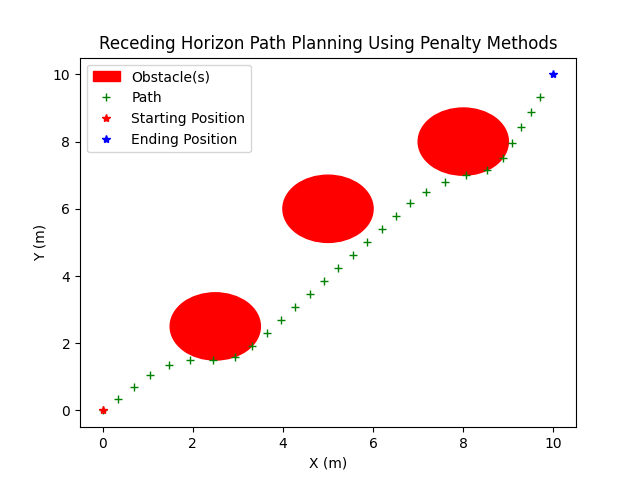
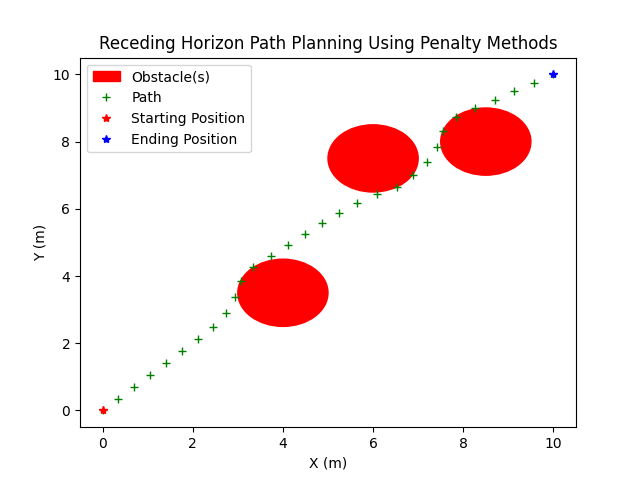
finished prjt hw

diff --git a/prototype.py b/prototype.py
@@ -42,12 +42,12 @@ if __name__ == '__main__':
     x0 = np.array([0,0])
     step_size = 0.5
     anchor_con_args = [x0,step_size]
-    centers = [np.array([2.5,2.5]),
-                np.array([8,8]),
-                np.array([5,6])]
-    # centers = [np.array([5,5]),
-    #             np.array([4,6]),
-    #             np.array([6,4])]
+    # centers = [np.array([2.5,2.5]),
+    #             np.array([8,8]),
+    #             np.array([5,6])]
+    centers = [np.array([4,3.5]),
+                np.array([8.5,8]),
+                np.array([6,7.5])]
 
     r = 1.0
     obst_con_args = [centers,r]
@@ -61,26 +61,28 @@ if __name__ == '__main__':
     )
 
     path = np.array([x0[:]])
-    tau = 0.5
+    tau = step_size / 2
+    is1stIteration = True
     while np.linalg.norm(X[0,:] - xf) > tau:
+        if not is1stIteration:
+            X = np.vstack([X[1:,:],X[-1,:]+step_size])
+
         x = minimize(obj,X,args=args,constraints=con)
         X = x.x.reshape((int(len(x.x)/2),2))
         path = np.vstack([path,X[0,:]])
-        
-        # fig, axs = plt.subplots()
-        # for i in range(len(centers)):
-        #     circle_i = plt.Circle(centers[i],radius=r,color='r',fill=True)
-        #     axs.add_patch(circle_i)
-        # axs.plot(path[:,0],path[:,1],'g+')
-        # axs.plot(X[:,0],X[:,1],'b--')
-        # axs.plot(0,0,'r*')
-        # print(xf)
-        # axs.plot(xf[0],xf[1],'r*')
-        # plt.show()
+
+        if is1stIteration:
+            true_optimum = step_size * np.array([
+                [np.sqrt(2)/2,np.sqrt(2)/2],
+                [2*np.sqrt(2)/2,2*np.sqrt(2)/2],
+                [3*np.sqrt(2)/2,3*np.sqrt(2)/2]
+            ])
+            print("Accuracy:",np.linalg.norm(X-true_optimum),"meters")
+            print("Number of iterations until convergence:",x.nit)
+            is1stIteration = False
 
         # Update variables (i.e. move along path)
         x0 = X[0,:]
-        step_size = 0.5
         anchor_con_args = [x0,step_size]
         con = (
             {'type':'eq',
@@ -90,7 +92,6 @@ if __name__ == '__main__':
             'fun':obst_con,
             'args':obst_con_args},
         )
-        X = np.vstack([X[1:,:],X[-1,:]+1])
     
     fig, axs = plt.subplots()
     for i in range(len(centers)):
@@ -102,7 +103,7 @@ if __name__ == '__main__':
     axs.plot(path[:,0],path[:,1],'g+',label="Path")
     axs.plot(0,0,'r*',label="Starting Position")
     axs.plot(xf[0],xf[1],'b*',label="Ending Position")
-    axs.set_title("Receding Horizon Path Planning")
+    axs.set_title("Receding Horizon Path Planning Using Scipy")
     axs.set_xlabel("X (m)")
     axs.set_ylabel("Y (m)")
     axs.legend()

diff --git a/const_grad_opt.py b/const_grad_opt.py
@@ -49,19 +49,21 @@ if __name__ == '__main__':
     xf = np.array([10,10])
     x0 = np.array([0,0])
     step_size = 0.5
-    centers = [np.array([2.5,2.5]),
-                np.array([8,8]),
-                np.array([5,6])]
-    r = 1.0
+    centers = [np.array([4,3.5]),
+                np.array([8.5,8]),
+                np.array([6,7.5])]
+    r = 1.
     
     # Quadratic Penalty Method Variables
     n = np.size(X,0)
     m = 2 # 1 for equality and 1 for inequality constraints
     
     path = np.array([x0[:]])
-    tau = 0.5
-    step = 0
+    tau = step_size / 2
+    is1stIteration = True
     while np.linalg.norm(X[0,:] - xf) > tau:
+        if not is1stIteration:
+            X = np.vstack([X[1:,:],X[-1,:]+step_size])
         mu = np.ones((m,)) * 1 # mu > 0
         rho = np.ones((m,)) * 2 # Ext: rho > 1, Int: rho < 1
 
@@ -73,13 +75,23 @@ if __name__ == '__main__':
             x = minimize(obj_penalty,X,args=args)
             mu = rho * mu # mu gets larger each time
             X = x.x
+            itr += x.nit
 
         X = x.x.reshape(n,2)
         path = np.vstack([path,X[0,:]])
 
+        if is1stIteration:
+            true_optimum = step_size * np.array([
+                [np.sqrt(2)/2,np.sqrt(2)/2],
+                [2*np.sqrt(2)/2,2*np.sqrt(2)/2],
+                [3*np.sqrt(2)/2,3*np.sqrt(2)/2]
+            ])
+            print("Accuracy:",np.linalg.norm(X-true_optimum),"meters")
+            print("Number of iterations until convergence:",itr)
+            is1stIteration = False
+
         # Update variables (i.e. move along path)
         x0 = X[0,:]
-        X = np.vstack([X[1:,:],X[-1,:]+step_size])
     
     fig, axs = plt.subplots()
     for i in range(len(centers)):
